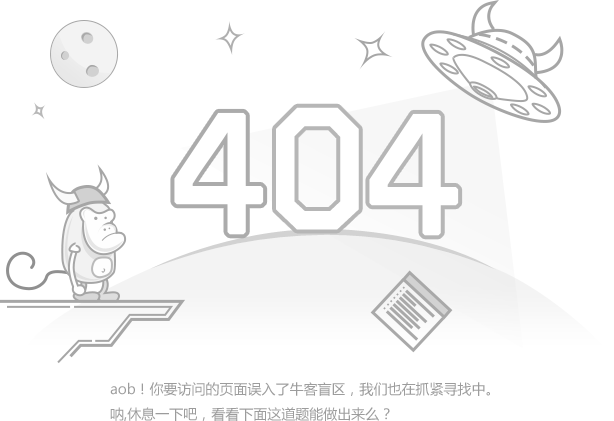
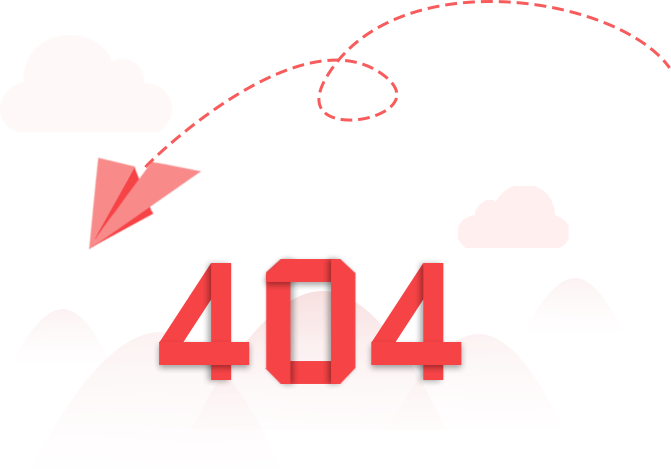
异常统一处理

diff --git a/src/main/resources/templates/error/500.html b/src/main/resources/templates/error/500.html
@@ -1,0 +1,33 @@
+<!doctype html>
+<html lang="en" xmlns:th="http://www.thymeleaf.org">
+<head>
+	<meta charset="utf-8">
+	<meta name="viewport" content="width=device-width, initial-scale=1, shrink-to-fit=no">
+	<link rel="icon" href="https://static.nowcoder.com/images/logo_87_87.png"/>
+	<link rel="stylesheet" href="https://stackpath.bootstrapcdn.com/bootstrap/4.3.1/css/bootstrap.min.css" crossorigin="anonymous">
+	<link rel="stylesheet" th:href="@{/css/global.css}" />
+	<title>牛客网-500</title>
+</head>
+<body>
+	<div class="nk-container">
+		<!-- 头部 -->
+		<header class="bg-dark sticky-top" th:replace="~{index::header}">
+		</header>
+
+		<!-- 内容 -->
+		<div class="main">
+			<div class="container pl-5 pr-5 pt-3 pb-3 mt-3 mb-3">
+				<img th:src="@{/img/error.png}" >
+			</div>
+		</div>
+
+		<!-- 尾部 -->
+		<footer class="bg-dark" th:replace="~{index::bottom}">
+		</footer>
+	</div>
+	<script src="https://code.jquery.com/jquery-3.3.1.min.js" crossorigin="anonymous"></script>
+	<script src="https://cdnjs.cloudflare.com/ajax/libs/popper.js/1.14.7/umd/popper.min.js" crossorigin="anonymous"></script>
+	<script src="https://stackpath.bootstrapcdn.com/bootstrap/4.3.1/js/bootstrap.min.js" crossorigin="anonymous"></script>
+	<script th:src="@{/js/global.js}"></script>
+</body>
+</html>

diff --git a/src/main/resources/templates/error/404.html b/src/main/resources/templates/error/404.html
@@ -1,0 +1,33 @@
+<!doctype html>
+<html lang="en" xmlns:th="http://www.thymeleaf.org">
+<head>
+	<meta charset="utf-8">
+	<meta name="viewport" content="width=device-width, initial-scale=1, shrink-to-fit=no">
+	<link rel="icon" href="https://static.nowcoder.com/images/logo_87_87.png"/>
+	<link rel="stylesheet" href="https://stackpath.bootstrapcdn.com/bootstrap/4.3.1/css/bootstrap.min.css" crossorigin="anonymous">
+	<link rel="stylesheet" th:href="@{/css/global.css}" />
+	<title>牛客网-404</title>
+</head>
+<body>
+	<div class="nk-container">
+		<!-- 头部 -->
+		<header class="bg-dark sticky-top" th:replace="index::header">
+		</header>
+
+		<!-- 内容 -->
+		<div class="main">
+			<div class="container pl-5 pr-5 pt-3 pb-3 mt-3 mb-3">
+				<img th:src="@{/img/404.png}" >
+			</div>
+		</div>
+
+		<!-- 尾部 -->
+		<footer class="bg-dark" th:replace="index::bottom">
+		</footer>
+	</div>
+	<script src="https://code.jquery.com/jquery-3.3.1.min.js" crossorigin="anonymous"></script>
+	<script src="https://cdnjs.cloudflare.com/ajax/libs/popper.js/1.14.7/umd/popper.min.js" crossorigin="anonymous"></script>
+	<script src="https://stackpath.bootstrapcdn.com/bootstrap/4.3.1/js/bootstrap.min.js" crossorigin="anonymous"></script>
+	<script th:src="@{/js/global.js}"></script>
+</body>
+</html>

diff --git a/src/main/java/com/nowcoder/demo1/controller/advice/ExceptionAdvice.java b/src/main/java/com/nowcoder/demo1/controller/advice/ExceptionAdvice.java
@@ -1,0 +1,43 @@
+package com.nowcoder.demo1.controller.advice;
+
+import com.nowcoder.demo1.util.CommunityUtil;
+import jakarta.servlet.http.HttpServletRequest;
+import jakarta.servlet.http.HttpServletResponse;
+import org.slf4j.Logger;
+import org.slf4j.LoggerFactory;
+import org.springframework.stereotype.Controller;
+import org.springframework.web.bind.annotation.ControllerAdvice;
+import org.springframework.web.bind.annotation.ExceptionHandler;
+
+import java.io.IOException;
+import java.io.PrintWriter;
+import java.util.Arrays;
+
+
+/**
+ * 处理异常
+ */
+@ControllerAdvice(annotations = Controller.class)
+public class ExceptionAdvice {
+    private static final Logger logger = LoggerFactory.getLogger(ExceptionAdvice.class);
+//    处理所有异常
+    @ExceptionHandler({Exception.class})
+    public void handleException(Exception e, HttpServletRequest request, HttpServletResponse response) throws IOException {
+        logger.error("服务器发生异常：" + Arrays.toString(e.getStackTrace()));
+
+        for (StackTraceElement element : e.getStackTrace()) {
+            logger.error(element.toString());
+        }
+
+//        判断请求方式是否为异步
+        String xRequestWith = request.getHeader("x-requested-with");
+        if ("XMLHttpRequest".equals(xRequestWith)){
+//            满足则为异步请求
+            response.setContentType("application/plain;charset=utf-8");
+            PrintWriter writer = response.getWriter();
+            writer.write(CommunityUtil.getJsonString(1,"服务器异常！"));
+        }else {
+            response.sendRedirect(request.getContextPath() + "/error");
+        }
+    }
+}

diff --git a/src/main/java/com/nowcoder/demo1/controller/HomeController.java b/src/main/java/com/nowcoder/demo1/controller/HomeController.java
@@ -44,4 +44,9 @@ public class HomeController {
         model.addAttribute("discussPosts",discussPosts);
         return "index";
     }
+
+    @RequestMapping(path = "/error",method = RequestMethod.GET)
+    public String gerErrorPage(){
+        return "error/500";
+    }
 }

diff --git a/src/main/java/com/nowcoder/demo1/config/KaptchaConfig.java b/src/main/java/com/nowcoder/demo1/config/KaptchaConfig.java
@@ -8,6 +8,9 @@ import org.springframework.context.annotation.Configuration;
 
 import java.util.Properties;
 
+/**
+ * 生成验证图片
+ */
 @Configuration
 public class KaptchaConfig {
     @Bean
